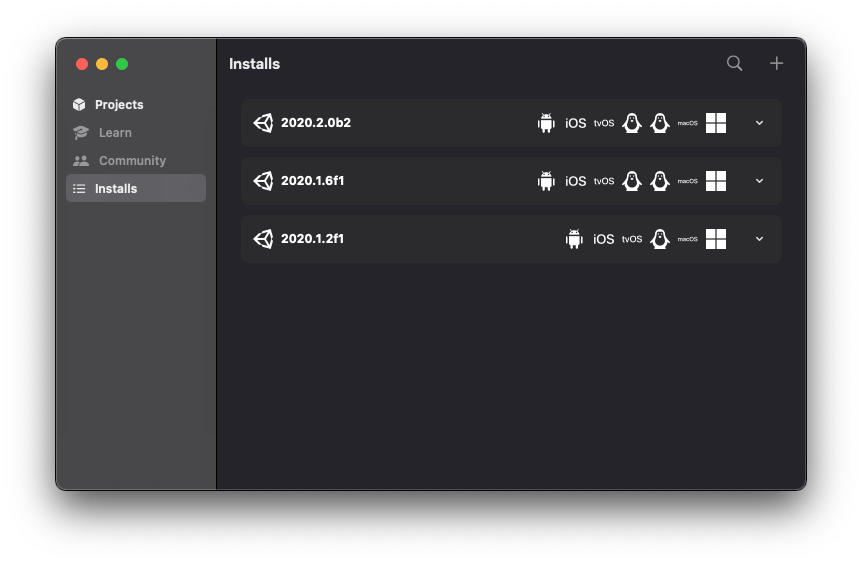
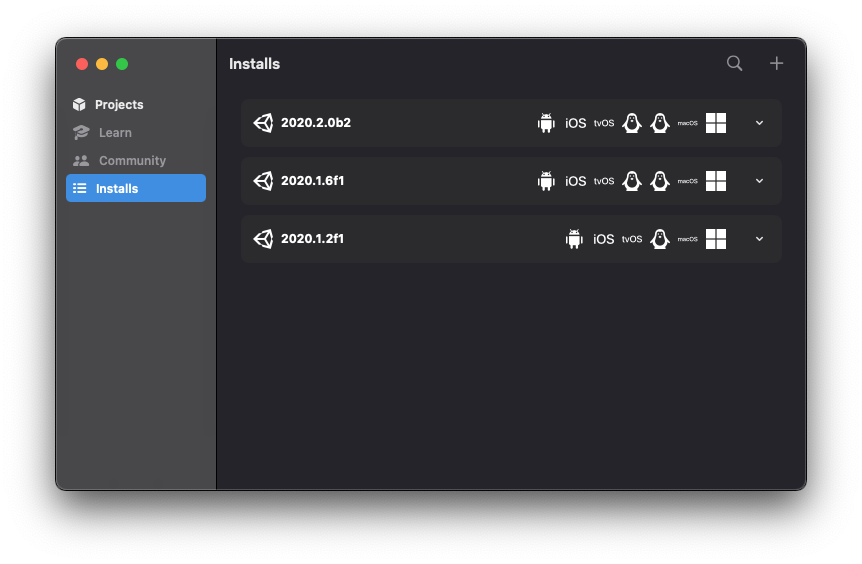
Cleanup

Changed region(s): [[0.0603, 0.3014, 0.2413, 0.3617]]

diff --git a/Unity Hub/ContentView.swift b/Unity Hub/ContentView.swift
@@ -18,19 +18,21 @@ struct ContentView: View {
                     NavigationLink(destination: TabSelector(item: item), tag: item, selection: $selectedItem) {
                         HStack {
                             Image(systemName: item.rawValue.2)
+                                .font(.system(size: 12, weight: .black))
                             Text(item.rawValue.1)
+                                .font(.system(size: 12, weight: .semibold))
                             Spacer()
                         }
-                        .font(.system(size: 12, weight: .semibold))
                         .frame(width: 192, height: 28)
                     }
                 case .learn, .community:
                     HStack {
                         Image(systemName: item.rawValue.2)
+                            .font(.system(size: 12, weight: .black))
                         Text(item.rawValue.1)
+                            .font(.system(size: 12, weight: .semibold))
                         Spacer()
                     }
-                    .font(.system(size: 12, weight: .semibold))
                     .frame(width: 192, height: 28)
                     .foregroundColor(.gray)
                 }

diff --git a/Unity Hub/UnityVersionButton.swift b/Unity Hub/UnityVersionButton.swift
@@ -18,14 +18,12 @@ struct UnityVersionButton: View {
                 .padding(.leading, 12)
             Text(version)
                 .font(.system(size: 12, weight: .bold))
-            
+                .help(path)
             Spacer()
-            
             ForEach(getInstalledModules()) { item in
                 item.rawValue.2
                     .help(item.rawValue.0)
             }
-            
             Menu {
                 Button("Add Modules", action: {})
                 Button("Reveal in Finder", action: { NSWorkspace.shared.selectFile(nil, inFileViewerRootedAtPath: path) })

diff --git a/Unity Hub/ProjectButton.swift b/Unity Hub/ProjectButton.swift
@@ -21,11 +21,9 @@ struct ProjectButton: View {
                 Text(project)
                     .font(.system(size: 12, weight: .bold))
                     .padding(.leading, 12)
-
+                    .help(path)
                 Spacer()
-                
                 Text("Unity \(version)")
-                
                 Menu {
                     Button("Reveal in Finder", action: { NSWorkspace.shared.selectFile(nil, inFileViewerRootedAtPath: path) })
                     Button("Advanced", action: {})

diff --git a/Unity Hub/UnityModule.swift b/Unity Hub/UnityModule.swift
@@ -21,7 +21,7 @@ enum UnityModule {
 }
 
 extension UnityModule: RawRepresentable {
-    // (display name, json name, icon)
+    // (display name, json id, icon)
     typealias RawValue = (String, String, AnyView)
     
     init?(rawValue: (String, String, AnyView)) {

diff --git a/README.md b/README.md
@@ -10,4 +10,5 @@ Planned features
   - Loading projects with a specific version of Unity
   - Installing Unity versions and modules
 
+![Projects view](images/Projects.png) 
 ![Installs view](images/Installs.png) 
